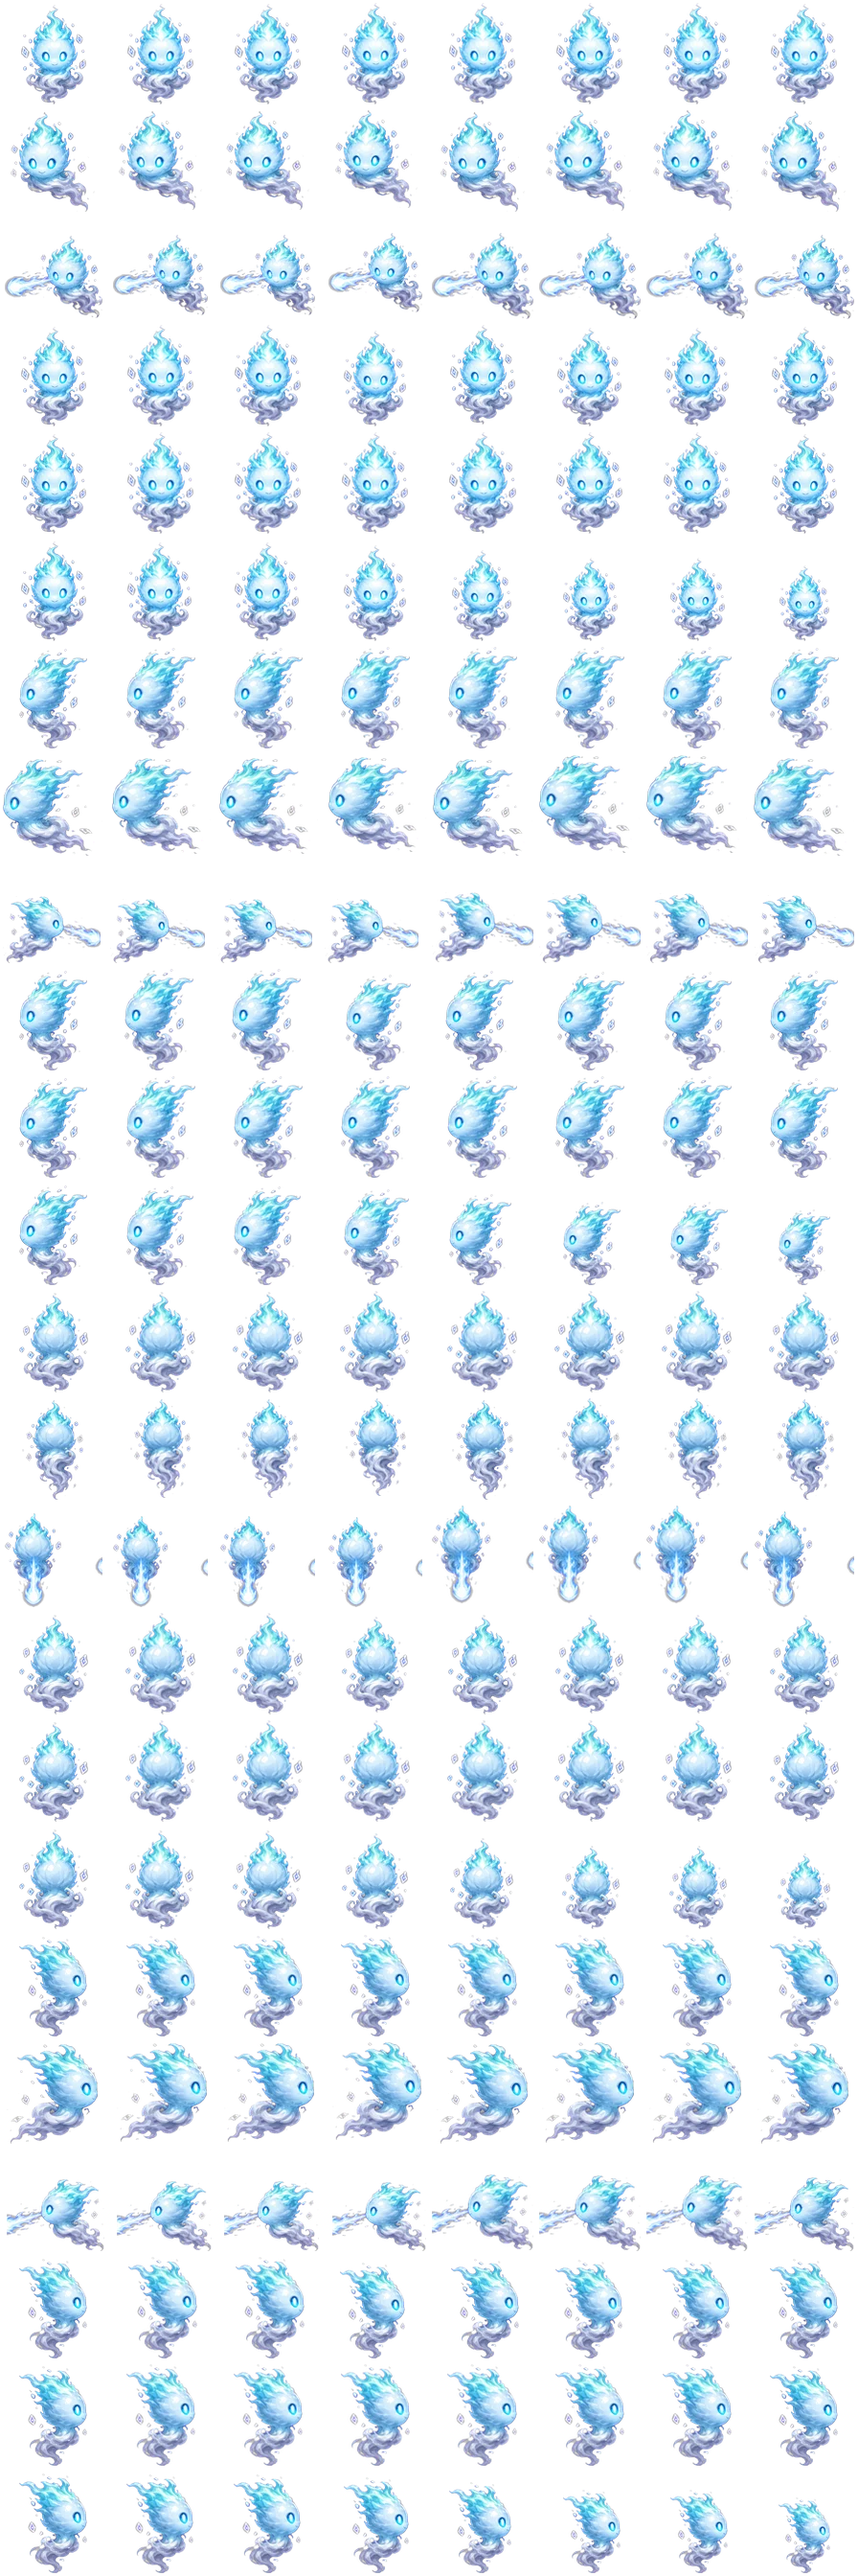
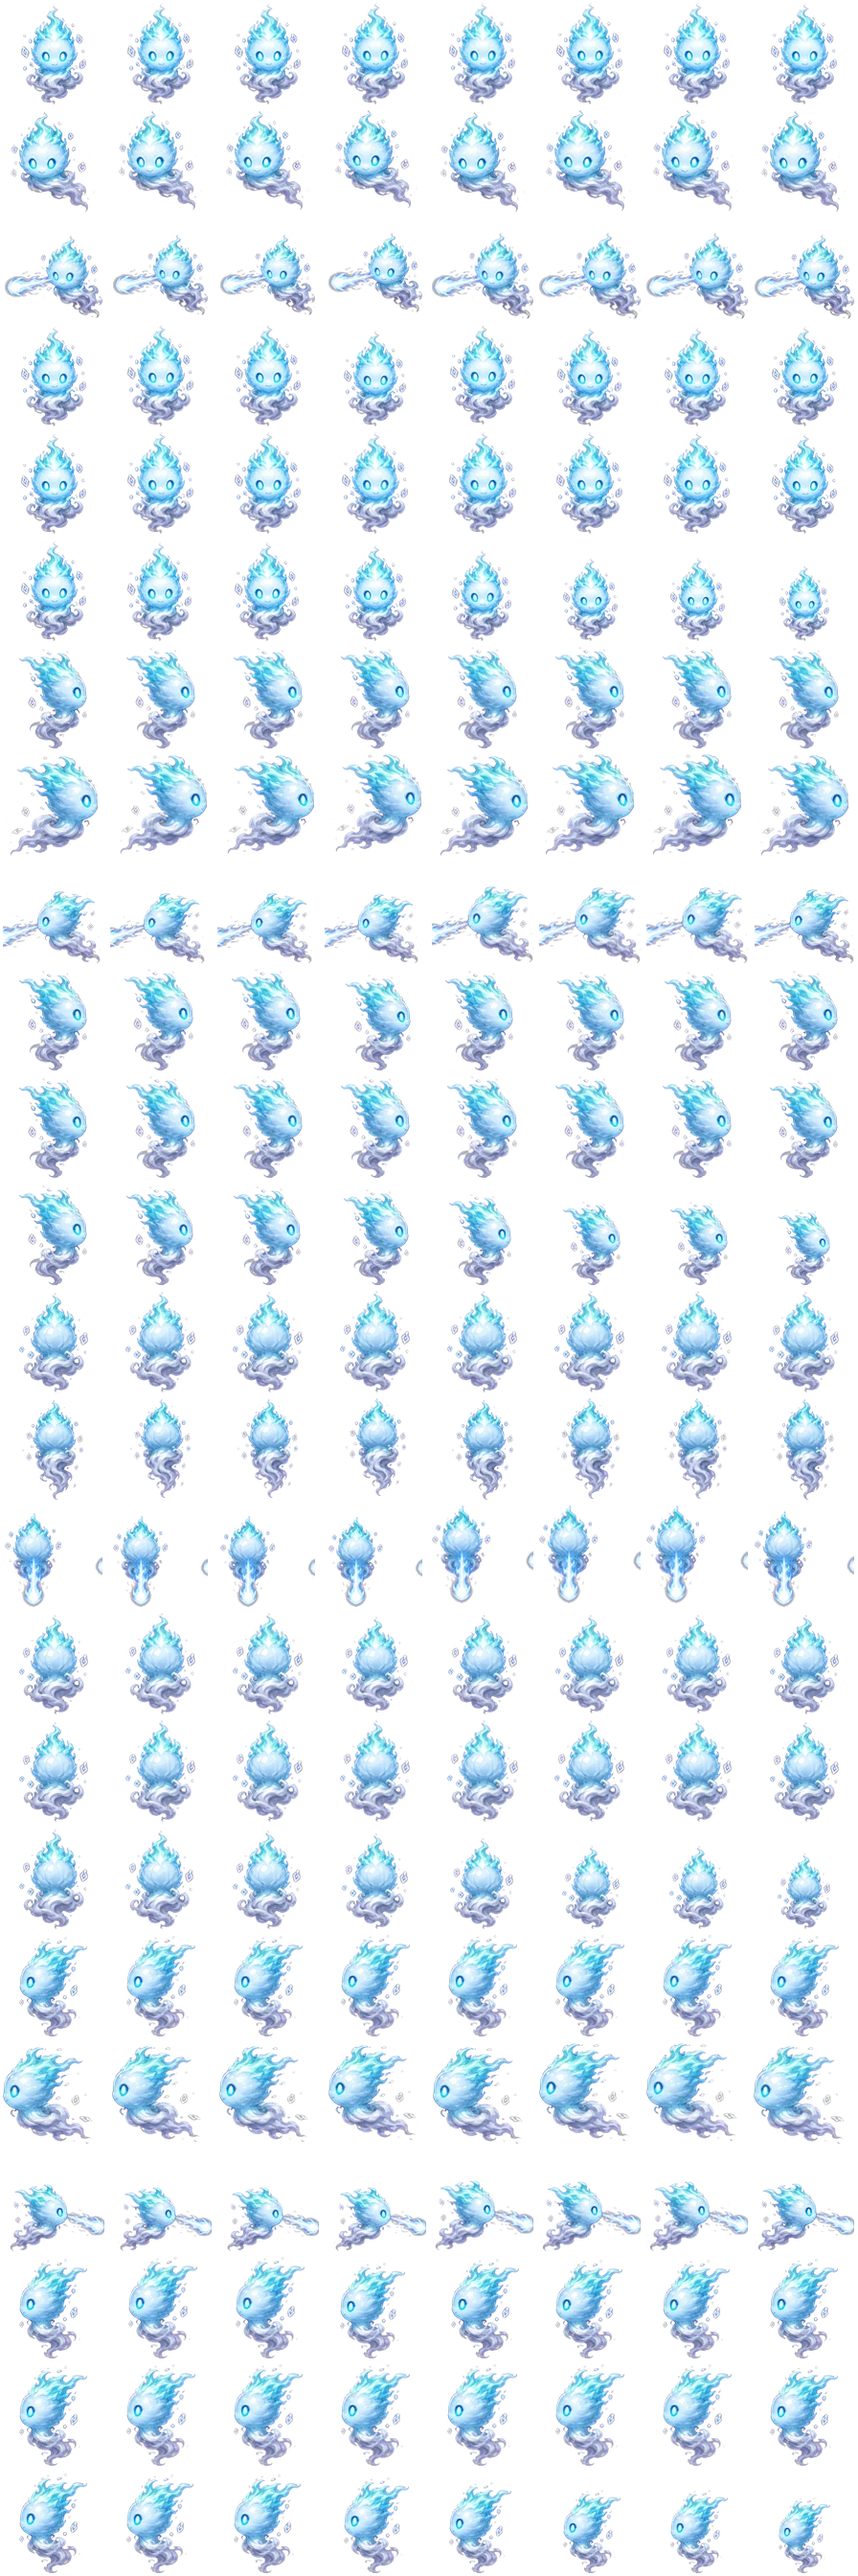
fix: correct fog wisp and gloom turtle facing

Changed region(s): [[0.0, 0.25, 1.0, 0.5], [0.0, 0.75, 1.0, 1.0]]

diff --git a/tactics.html b/tactics.html
@@ -79,6 +79,6 @@
   <div id="home-display-modal" class="deploy-modal" hidden><section class="deploy-dialog home-display-dialog" role="dialog" aria-modal="true" aria-labelledby="home-display-title"><div class="deploy-head"><div><p class="eyebrow">旗艦設定</p><h2 id="home-display-title">選擇機庫展示幻獸</h2></div><button class="close-deploy" data-close="home-display-modal" aria-label="關閉展示設定">×</button></div><p class="gacha-info">這五隻是首頁展示候選；更換展示不會影響你實際擁有或出戰的幻獸。</p><label class="home-display-mode"><input id="home-display-follow" type="checkbox"> 展示跟隨目前隊長</label><div id="home-display-grid" class="home-display-grid"></div></section></div>
   <div id="story-modal" class="deploy-modal story-modal" hidden><section class="deploy-dialog story-dialog" role="dialog" aria-modal="true" aria-labelledby="story-title"><div id="story-art" class="story-art"></div><div class="story-body"><p id="story-kicker" class="eyebrow"></p><p id="story-speaker" class="story-speaker"></p><h2 id="story-title"></h2><p id="story-copy"></p><button id="story-next" class="primary" type="button">繼續</button></div></section></div>
   <script>window.__consoleErrors=[];window.addEventListener('error',function(e){window.__consoleErrors.push(String(e.message||e.error));});window.addEventListener('unhandledrejection',function(e){window.__consoleErrors.push(String(e.reason));});</script>
-  <script src="js/data/pets.js"></script><script src="js/data/pets-lightdark.js?v=1"></script><script src="js/data/pets-pack.js?v=1"></script><script src="js/data/tactical-pets.js?v=8"></script><script src="js/data/tactical-enemies.js?v=5"></script><script src="js/data/map-terrain.js?v=1"></script><script src="js/data/tactical-content.js?v=11"></script><script src="js/data/story-content.js?v=3"></script><script src="js/data/animation-config.js?v=1"></script><script src="assets/animations/directional/manifest.js?v=6"></script><script src="js/core/TacticalProgression.js?v=12"></script><script src="js/core/TacticalAudio.js?v=2"></script><script src="js/tactics.js?v=65"></script>
+  <script src="js/data/pets.js"></script><script src="js/data/pets-lightdark.js?v=1"></script><script src="js/data/pets-pack.js?v=1"></script><script src="js/data/tactical-pets.js?v=8"></script><script src="js/data/tactical-enemies.js?v=5"></script><script src="js/data/map-terrain.js?v=1"></script><script src="js/data/tactical-content.js?v=11"></script><script src="js/data/story-content.js?v=3"></script><script src="js/data/animation-config.js?v=1"></script><script src="assets/animations/directional/manifest.js?v=7"></script><script src="js/core/TacticalProgression.js?v=12"></script><script src="js/core/TacticalAudio.js?v=2"></script><script src="js/tactics.js?v=66"></script>
 </body>
 </html>

diff --git a/js/tactics.js b/js/tactics.js
@@ -204,7 +204,7 @@
     var stage = Math.max(1, Math.min(3, Number(unit.evolution) || 1));
     var stagePortrait = unit.p.evolution[Math.min(stage, unit.p.evolution.length) - 1]?.portrait || '';
     var stageSuffix = stage > 1 && stagePortrait.indexOf('assets/pets/' + unit.id + '/evolution/stage_' + stage + '.png') === 0 ? '-stage_' + stage : '';
-    return '../assets/animations/directional/' + unit.id + stageSuffix + '-motion-4dir-sheet.webp?v=30';
+    return '../assets/animations/directional/' + unit.id + stageSuffix + '-motion-4dir-sheet.webp?v=31';
   }
   function motionManifestEntry(unit) { return (window.TACTICAL_MOTION_MANIFEST || {})[unit.id] || {}; }
   function animationSpec(unit, action, override) {

diff --git a/assets/animations/directional/manifest.js b/assets/animations/directional/manifest.js
@@ -5219,9 +5219,9 @@ window.TACTICAL_MOTION_MANIFEST = {
     },
     "sourceColumns": [
       0,
-      1,
+      3,
       2,
-      3
+      1
     ],
     "sourceType": "authored-four-direction",
     "source": "assets/animations/directional/sources/fog_wisp-four-direction-reference-v1-alpha.png",
@@ -6280,9 +6280,9 @@ window.TACTICAL_MOTION_MANIFEST = {
     },
     "sourceColumns": [
       0,
-      1,
+      3,
       2,
-      3
+      1
     ],
     "sourceType": "authored-four-direction",
     "source": "assets/animations/directional/sources/gloom_turtle-four-direction-reference-v1-alpha.png",

diff --git a/scripts/build-four-direction-motion.py b/scripts/build-four-direction-motion.py
@@ -61,7 +61,10 @@ SOURCE_ALREADY_RIGHT = {
 # the character's stated facing direction.  These units were verified in the
 # live battle: their visible side must be swapped so a rightward move/attack
 # points right on the board.
-SWAPPED_SIDE_UNITS = {"fire_lion", "fire_fox", "leaf_ear_rabbit", "rotcap_rootling", "venom_mantis"}
+SWAPPED_SIDE_UNITS = {
+    "fire_lion", "fire_fox", "leaf_ear_rabbit", "rotcap_rootling", "venom_mantis",
+    "fog_wisp", "gloom_turtle",
+}
 # AI grids occasionally let an adjacent cell's tail or attack trail cross the
 # cell boundary.  Remove only the verified intrusion, before scaling it into a
 # runtime frame.  Keys are (unit id, source row, source column).

diff --git a/docs/AI交接－四方向原生動作補繪待辦.md b/docs/AI交接－四方向原生動作補繪待辦.md
@@ -86,6 +86,8 @@ $m.psobject.Properties | Where-Object { $_.Value.sourceType -eq 'derived-from-ap
 
 本批驗證：`python scripts/check-directional-frame-bounds.py` 34,560 格通過；`npm.cmd test` 92/92 通過。尚未獨立提交／上架，避免與工作區其他未完成的第 11 章與介面變更混合。
 
+方向校正：`fog_wisp`｜霧中鬼火與 `gloom_turtle`｜幽暗龜已依實測交換側面來源欄位，確保右移／右攻時面向右方；第 2、3 章其餘八隻維持原有映射。
+
 ### 第三章完成狀態（2026-07-27，待獨立上架）
 
 `ash_crown_tyrant`｜燼冠暴君（Boss）與第三章實際出場的 `crown_cinderling`｜燼冠餘燼靈、`salamander_fiend`｜火蜥精、`surtr_spawn`｜焰巨人眷屬、`ember_imp`｜餘燼小鬼，均已完成真正原生前／右／後／左動作來源、透明去背與戰鬥圖集重建。
